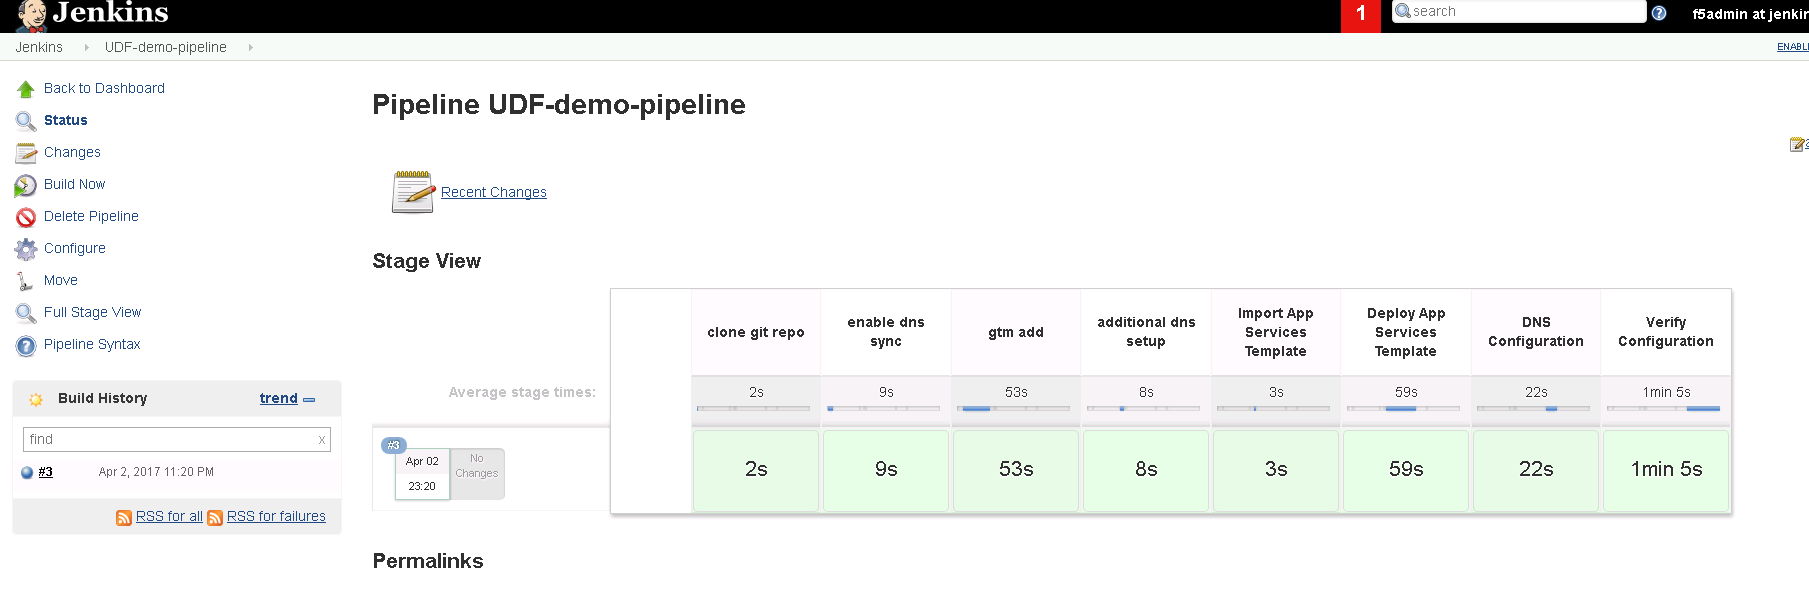
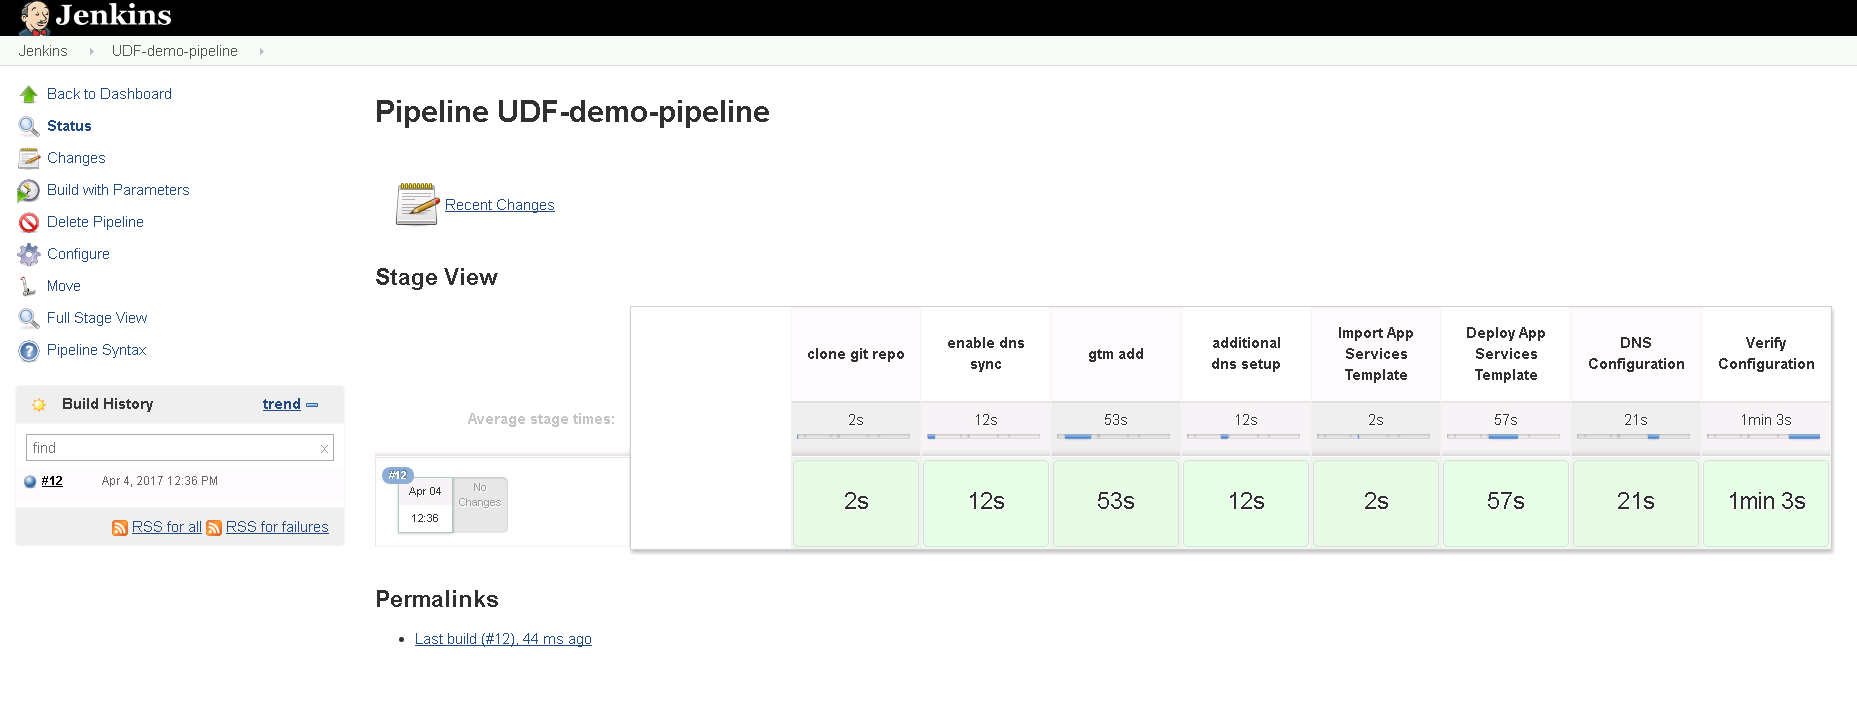
changes for build parameters

diff --git a/docs/lab5/lab5_guide.rst b/docs/lab5/lab5_guide.rst
@@ -124,7 +124,22 @@ Click on "UDF-demo-pipeline" and you should see.
    :scale: 50%
    :align: center
 
-In order to run the project click on the left side the "Build Now" link.  While the build is running you will see.
+In order to run the project click on the left side the "Build with Parameters" link.  
+
+
+.. image:: udf-demo-pipeline-build-parameters.png
+   :scale: 50%
+   :align: center
+   
+In previous labs all the input parameters were statically defined making the solution only usable with a specific network.  By utilizing parameters in Jenkins we are creating a solution that can be deployed more dynamically.
+
+Scroll to the bottom of the page and find the "Build" button and click on it.
+   
+.. image:: udf-demo-pipeline-build-parameters-button.png
+   :scale: 50%
+   :align: center
+
+While the build is running you will see.
 
 .. image:: udf-demo-pipeline-running.png
    :scale: 50%
@@ -170,6 +185,8 @@ Find the "Pipeline" section.
 .. image:: udf-demo-pipeline-configure-pipeline.png
    :scale: 50%
    :align: center
+   
+The current pipeline is configured to pull down a copy of Jenkinsfile from the f5devcentral GitHub repository.  We are going to download a local copy of this file and modify it to simulate a failure.
 
 Select the pulldown for "Pipeline script from SCM" and change to "Pipeline Script".
 
@@ -198,9 +215,16 @@ Now click on the Save Button.
    :scale: 75%
    :align: center
 
-Back on the pipeline page find the "Build Now" link and click on it.
+Back on the pipeline page find the "Build with Parameters" link.  
 
-.. image:: udf-demo-pipeline-finished.png
+
+.. image:: udf-demo-pipeline-build-parameters.png
+   :scale: 50%
+   :align: center
+   
+Scroll to the bottom of the page and find the "Build" button and click on it.
+   
+.. image:: udf-demo-pipeline-build-parameters-button.png
    :scale: 50%
    :align: center
 
